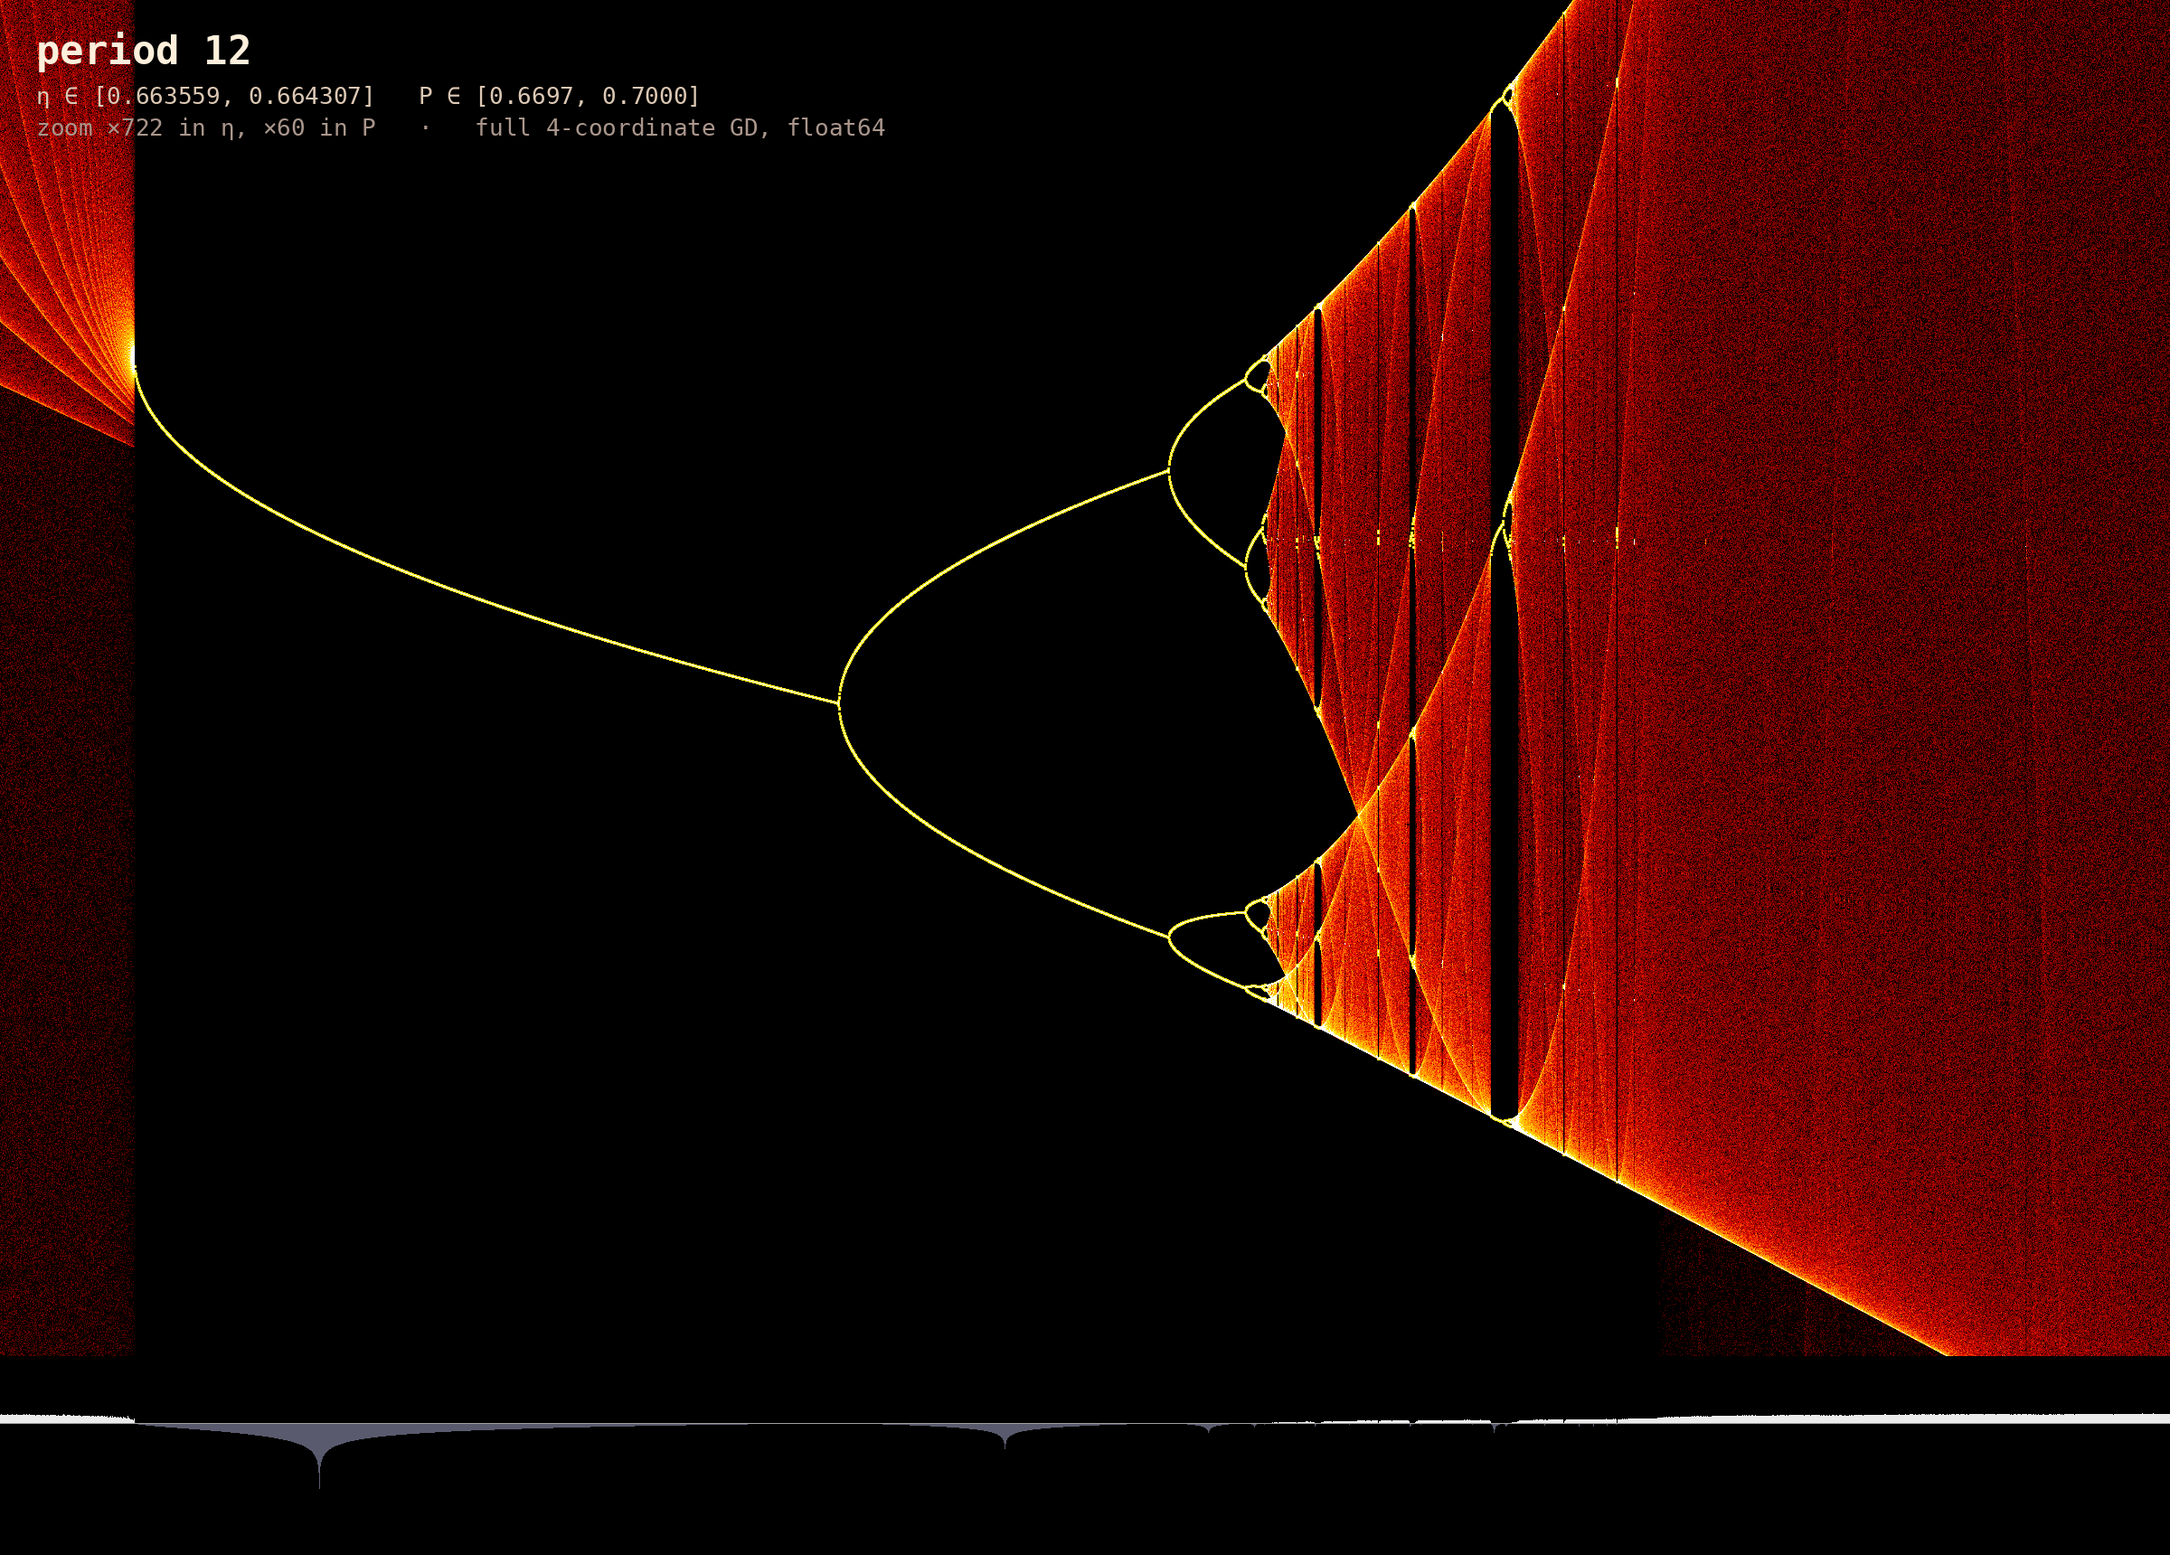
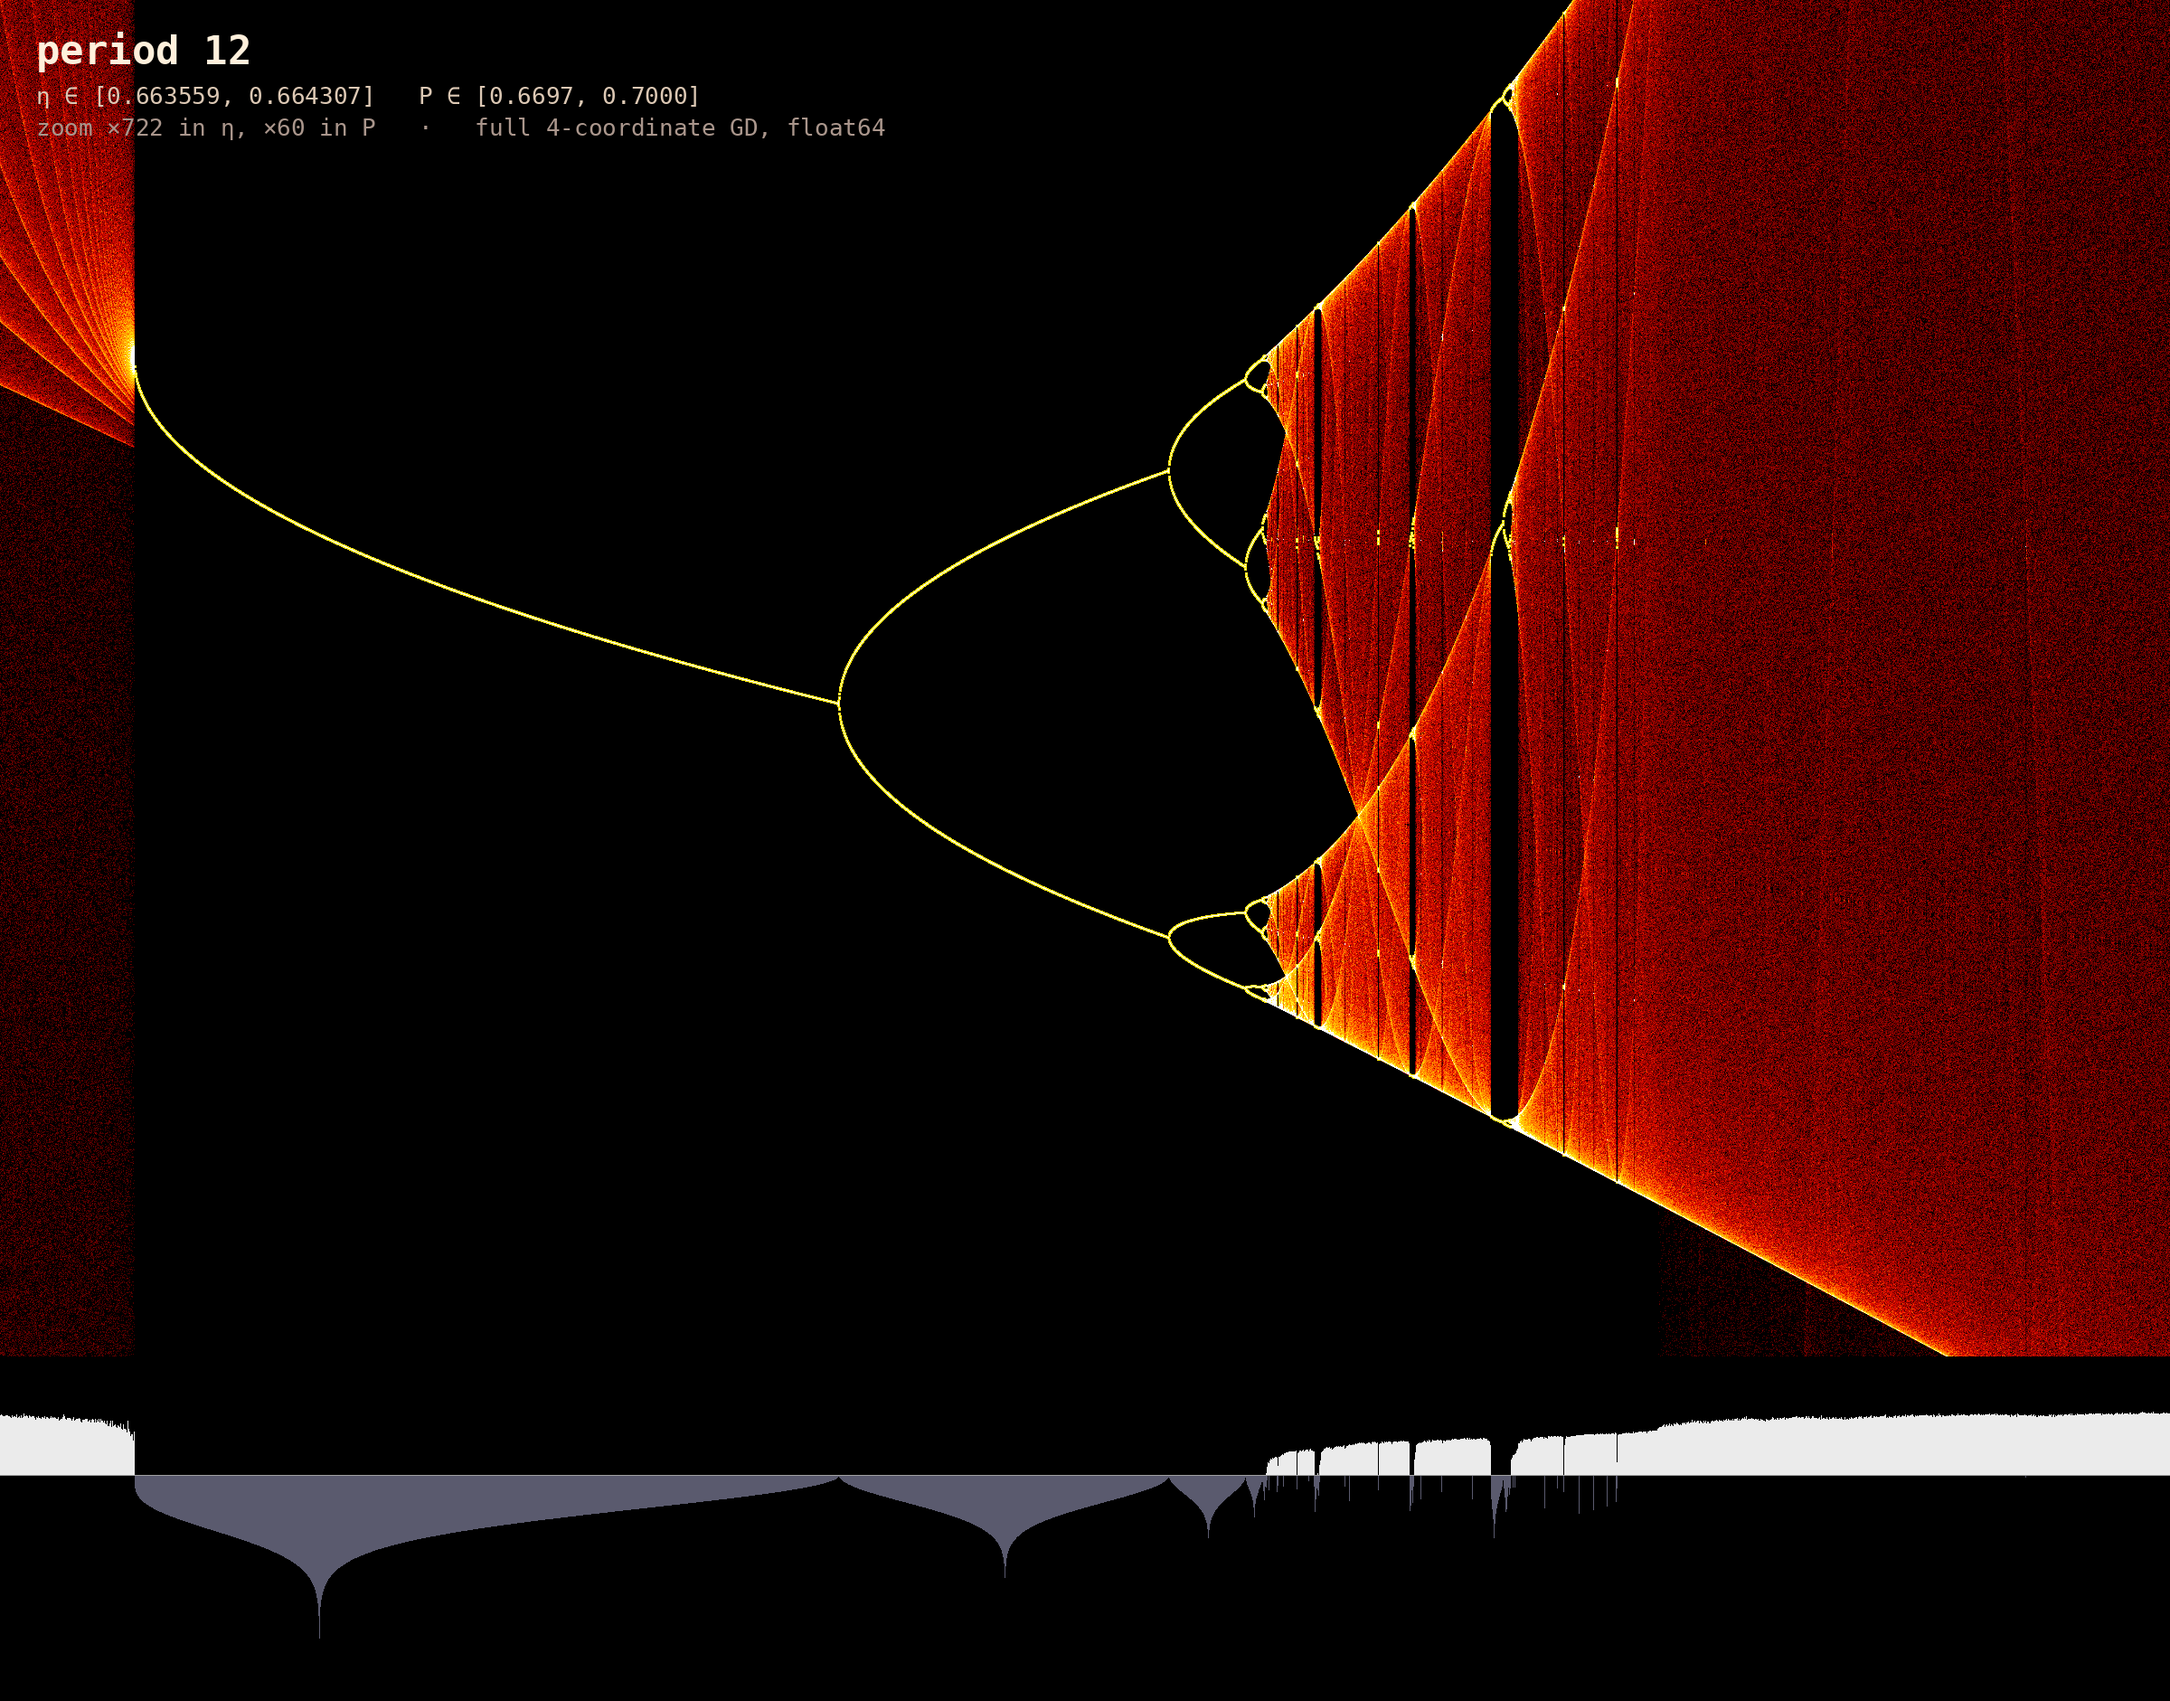
art/gd-bifurcation: atlas v2 (taller strips, zoom-ordered), compressible paper grain, plate labels

diff --git a/art/gd-bifurcation/render_atlas.py b/art/gd-bifurcation/render_atlas.py
@@ -31,7 +31,8 @@ def fmt(v, span):
 
 def strip(etas, lam, W, H, rect):
     lo, hi = rect[0], rect[1]
-    pos, neg, y0, _, _ = lyap_raster(etas, lam, lo, hi, W, H, -1.5, 0.7)
+    lam = np.sign(lam) * np.sqrt(np.abs(lam))  # declared sign-preserving sqrt compression
+    pos, neg, y0, _, _ = lyap_raster(etas, lam, lo, hi, W, H, -1.2, 0.6)
     return pos, neg, int(round(y0))
 
 
@@ -40,7 +41,7 @@ def plate_img(d, W, H, style="dark", strip_h=None):
     t = tone_plate(C)
     im = Image.fromarray(np.uint8(t * 255)).resize((W, H), Image.LANCZOS)
     t = np.asarray(im, float) / 255
-    sh = strip_h or H // 7
+    sh = strip_h or H // 4
     pos, neg, y0 = strip(d["etas"], d["lyap_bal"], W, sh, d["rect"])
     if style == "dark":
         img = apply_lut(t, cmap_lut("cc:fire"))
@@ -78,10 +79,12 @@ def main():
                 f"   ·   full 4-coordinate GD, float64", fill=(170, 150, 140), font=f2)
         pil.save(f"{GAL}/atlas/p{int(d['period']):02d}.png", optimize=True)
     # grids
-    for style in ["dark", "paper"]:
+    D_period = list(D)
+    D_zoom = sorted(D, key=lambda d: (d["rect"][1] - d["rect"][0]), reverse=True)
+    for style, D, suffix in [("dark", D_period, ""), ("paper", D_period, ""), ("dark", D_zoom, "_byzoom")]:
         cols = 4
         pw, ph = 1200, 750
-        sh = ph // 7
+        sh = ph // 4
         cell_h = ph + 6 + sh + 110
         rows = int(np.ceil(len(D) / cols))
         margin = 120
@@ -96,8 +99,8 @@ def main():
         dr = ImageDraw.Draw(pil)
         dr.text((margin, 70), "WINDOW ATLAS  ·  every periodic window of gradient descent on ½(x₁x₂x₃x₄ − 1)² is a small copy of the whole cascade",
                 fill=fg, font=font(46, "serif"))
-        dr.text((margin, 140), "each plate: widest window of that base period found in η ∈ [η∞, 0.99]; branch nearest the critical point; strip below: Lyapunov exponent (λ>0 up, λ<0 down)",
-                fill=fg2, font=font(28, "serif"))
+        dr.text((margin, 140), ("ordered by zoom factor. " if suffix else "") + "each plate: widest window of that base period in η ∈ [η∞, 0.99]; branch nearest the critical point (upside-down copies sit on orientation-reversing branches); strip: Lyapunov exponent, λ>0 up, λ<0 down",
+                fill=fg2, font=font(26, "serif"))
         for i, d in enumerate(D):
             r, c = divmod(i, cols)
             x = margin + c * (pw + 50)
@@ -109,7 +112,7 @@ def main():
             dr.text((x + 160, y + ph + 6 + sh + 10), f"η {fmt(lo, hi - lo)} … {fmt(hi, hi - lo)}", fill=fg2, font=font(24, "mono"))
             dr.text((x + 160, y + ph + 6 + sh + 42), f"P {fmt(ylo, yhi - ylo)} … {fmt(yhi, yhi - ylo)}   ×{(HERO[1] - HERO[0]) / (hi - lo):,.0f}",
                     fill=fg2, font=font(24, "mono"))
-        out = f"{GAL}/atlas_{style}.png"
+        out = f"{GAL}/atlas_{style}{suffix}.png"
         pil.save(out, optimize=True)
         print("wrote", out, pil.size)
 

diff --git a/art/gd-bifurcation/render_threshold.py b/art/gd-bifurcation/render_threshold.py
@@ -45,17 +45,19 @@ def main():
         ax.axhline(1.0, color=BLUE, lw=0.9, label=r"$2/s_{\min}$")
         gf = d["rule_gf"] * k / 2
         ini = d["rule_init"] * k / 2
-        ax.axhspan(gf.min(), gf.max(), color=RED, alpha=0.12, lw=0, label=r"$2/s_{GF}(x_0)$ range (flow minimum)")
-        ax.axhspan(max(ini.min(), 0.2), min(ini.max(), 1.6), color="#888", alpha=0.12, lw=0, label=r"$2/\lambda_{\max}(x_0)$ range")
+        xr = len(Ts) - 0.35
+        ax.plot(np.full(len(gf), xr), gf, "_", ms=9, color=RED, label=r"$2/s_{GF}(x_0)$ per init (flow minimum)")
+        ax.plot(np.full(len(ini), xr + 0.3), ini, "_", ms=9, color="#777", label=r"$2/\lambda_{\max}(x_0)$ per init")
+        ax.set_xlim(-0.5, len(Ts) + 0.2)
         ax.set_xticks(range(len(Ts)))
         ax.set_xticklabels([f"T = 10^{int(np.log10(t))}" for t in Ts], family="serif", fontsize=8)
         ax.set_ylabel(r"measured onset  $\eta_1 / (2/k)$", family="serif")
-        ax.set_ylim(0.3 if k == 4 else 0.7, 1.08)
+        ax.set_ylim(0.3 if k == 4 else 0.7, 1.75 if k == 4 else 1.12)
         ax.legend(frameon=False, fontsize=7, loc="lower right")
         med = [np.nanmedian(d[f"onset_T{TT}"]) * k / 2 for TT in Ts]
         ax.set_title("finite-time onset is init-dependent; it converges to 2/s_min\nmedian: " + ", ".join(f"{m:.4f}" for m in med),
                      family="serif", fontsize=9, loc="left")
-    fig.suptitle("The first doubling is at η = 2/s_min, where s_min = k is the sharpness of the balanced (flattest) global minimum of ½(x₁⋯x_k − 1)²",
+    fig.suptitle("The first doubling is at η = 2/s_min, where s_min = k is the sharpness of the balanced (flattest) global minimum of ½(x₁x₂…x_k − 1)²",
                  family="serif", fontsize=11, color=INK, x=0.06, ha="left")
     fig.savefig(f"{GAL}/plate_threshold_rule.png", facecolor=PAPER)
     print("wrote plate_threshold_rule.png")

diff --git a/art/gd-bifurcation/compute_plates.py b/art/gd-bifurcation/compute_plates.py
@@ -88,6 +88,23 @@ def atlas_job(r):
     return fn
 
 
+def tower_job(r):
+    p = r["base"]
+    w = r["hi"] - r["lo"]
+    lo, hi = r["lo"] - 0.12 * w, r["hi"] + 0.80 * w
+    h = r["yhi"] - r["ylo"]
+    ylo, yhi = r["ylo"] - 0.55 * h, r["yhi"] + 0.55 * h
+    fn = f"{CACHE}/atlas/tower_p{p:03d}.npz"
+    if os.path.exists(fn):
+        return fn
+    t0 = time.time()
+    C, e, ly, lb, al = counts(lo, hi, ylo, yhi, 2400, 1500, 30000, int(min(2500 * p, 400000)), spp=1)
+    np.savez_compressed(fn, C=C.astype(np.int32), etas=e, lyap=ly, lyap_bal=lb, alive=al, rect=(lo, hi, ylo, yhi),
+                        period=p, win=(r["lo"], r["hi"]))
+    print(f"tower p={p} done {time.time() - t0:.0f}s", flush=True)
+    return fn
+
+
 def zoom_path(tower, nframes, full=(0.45, 0.99, -0.03, 1.80)):
     """Keyframes: full diagram, then each tower window's central branch.  Log-linear interpolation of
     centre offsets and widths; returns list of (lo, hi, ylo, yhi, p_eff)."""
@@ -148,6 +165,11 @@ def main():
         os.makedirs(f"{CACHE}/atlas", exist_ok=True)
         with Pool(a.workers) as pool:
             list(pool.imap_unordered(atlas_job, Wj["atlas"]))
+    elif a.what == "tower":
+        os.makedirs(f"{CACHE}/atlas", exist_ok=True)
+        Wj = json.load(open(f"{CACHE}/windows.json"))
+        with Pool(a.workers) as pool:
+            list(pool.imap_unordered(tower_job, Wj["tower"][::-1]))
     else:
         Wj = json.load(open(f"{CACHE}/windows.json"))
         os.makedirs(f"{CACHE}/zoom", exist_ok=True)

diff --git a/art/gd-bifurcation/render_plate.py b/art/gd-bifurcation/render_plate.py
@@ -61,8 +61,8 @@ def plate(name="prod4", lo=0.45, hi=1.21, ylo=-0.03, yhi=2.2, W=6000, H=1900, ou
     sg = s_gf(x0)[0]
     ax.axvline(2 / sg, color=RED, lw=0.5, ls=(0, (3, 3)))
     ax.text(es + 0.002, yhi - 0.05, r"$\eta^\ast = 2/s_{\min}$" + f" = 2/{k}\n" +
-            r"$s_{\min}$ = sharpness of the balanced (flattest) global minimum" + "\nmeasured first doubling (Newton-Floquet): "
-            + f"{etan[0]:.6f}", color=RED, fontsize=6.5, family="serif", va="top")
+            r"$s_{\min}$ = sharpness of the balanced (flattest) global minimum" + "\nFloquet multiplier of the balanced fixed point hits −1 at η = "
+            + f"{etan[0]:.10f}" + f"\nsimulation bisection from x0 after 2·10⁵ steps: {json.load(open(f'{CACHE}/feigenbaum_B.json'))['B_prod4_T200000']['eta'][0]:.5f} (critical slowing)", color=RED, fontsize=6.5, family="serif", va="top")
     ax.annotate(r"$2/s_{GF}(x_0)$" + f" = {2 / sg:.4f}: 2/sharpness of the minimum gradient flow\nwould reach from the declared init (dashed). Not the onset.",
                 xy=(2 / sg, 1.55), xytext=(0.53, 1.62), color=RED, fontsize=6.5, family="serif", va="center",
                 arrowprops=dict(arrowstyle="-", color=RED, lw=0.4))

diff --git a/art/gd-bifurcation/render_lib.py b/art/gd-bifurcation/render_lib.py
@@ -72,10 +72,10 @@ def apply_lut(t, lut):
 def paper(H, W, base=(244, 239, 228), grain=6.0, seed=0):
     rng = np.random.default_rng(seed)
     p = np.ones((H, W, 3)) * np.array(base, float)
-    n = rng.normal(0, grain, (H // 4 + 1, W // 4 + 1))
+    # coarse fibre-like grain only (4 px blocks, integer levels) so lossless PNGs stay compressible
+    n = np.round(rng.normal(0, grain, (H // 4 + 1, W // 4 + 1)))
     n = np.kron(n, np.ones((4, 4)))[:H, :W]
-    fine = rng.normal(0, grain * 0.5, (H, W))
-    return np.clip(p + (n + fine)[..., None], 0, 255)
+    return np.clip(p + n[..., None], 0, 255)
 
 
 def ink_multiply(paper_rgb, alpha, ink_rgb):
